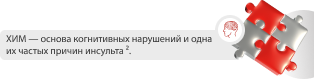
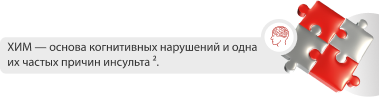
Add files via upload

diff --git a/style.css b/style.css
@@ -2214,7 +2214,7 @@ ul li img {
 .pazzle {
     height: auto;
     top: 47%;
-    width: 314px;
+    width: 410px;
     object-fit: cover;
 }
 .pazzle2 {
